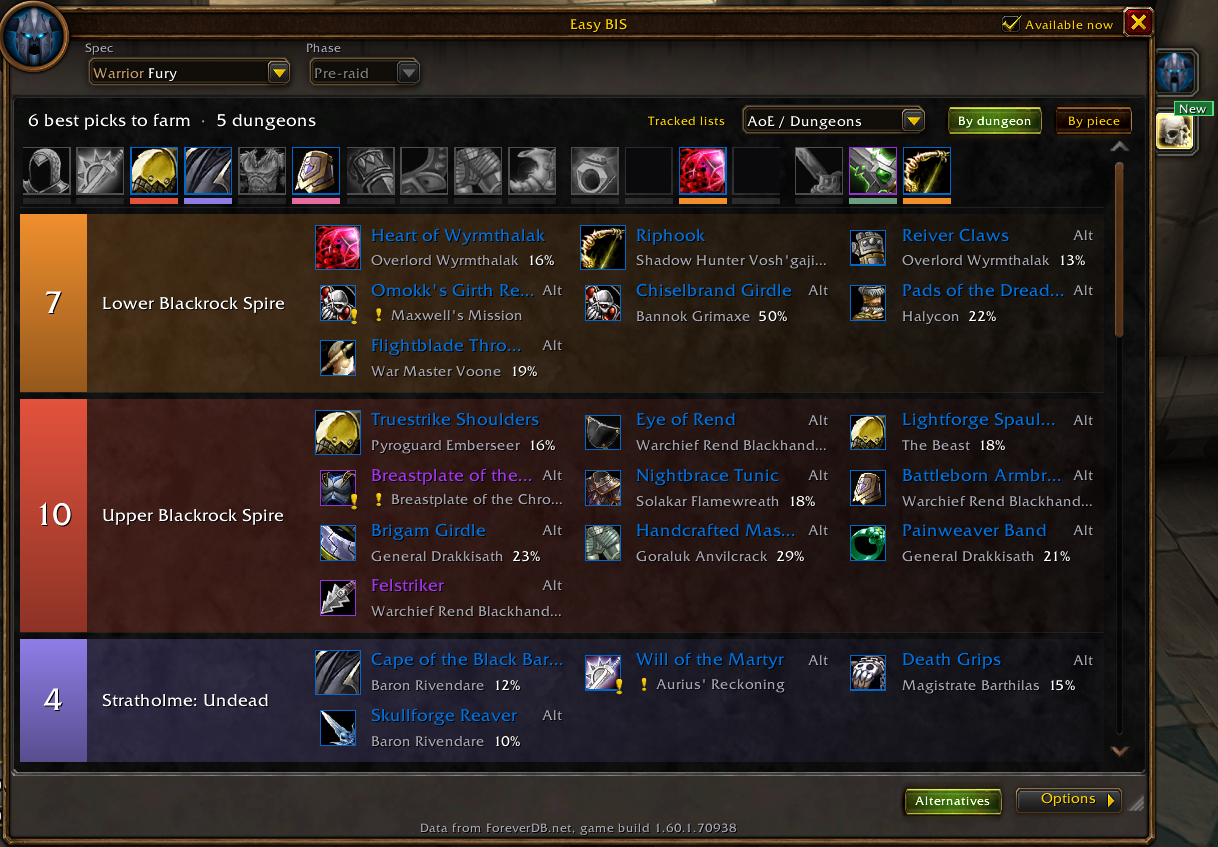
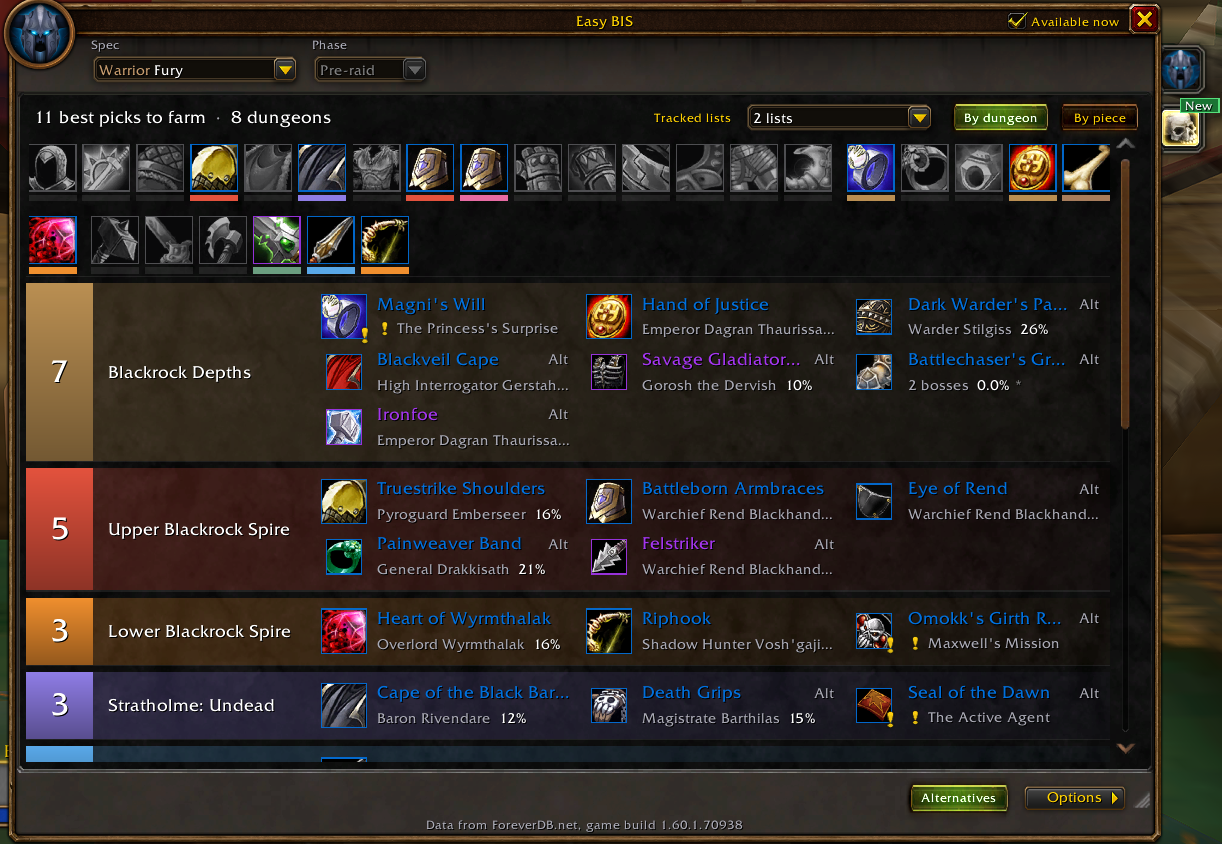
Show two tracked lists in the CurseForge Dungeons screenshot

diff --git a/docs/curseforge.md b/docs/curseforge.md
@@ -16,7 +16,7 @@ Easy BIS is a BIS list for every class and spec: the best-in-slot (BIS) item of 
 
 ## Dungeons
 
-![The dungeons, by dungeon](https://raw.githubusercontent.com/jBeyondstars/EasyBIS/main/docs/screenshots/dungeons.png)
+![Warrior Fury tracking two gear lists in the By dungeon view](https://raw.githubusercontent.com/jBeyondstars/EasyBIS/main/docs/screenshots/dungeons.png)
 
 The **Dungeons** tab shows which dungeons to run for your spec's best picks, each dungeon in its own colour. It is the second tab on the window's right side.
 
